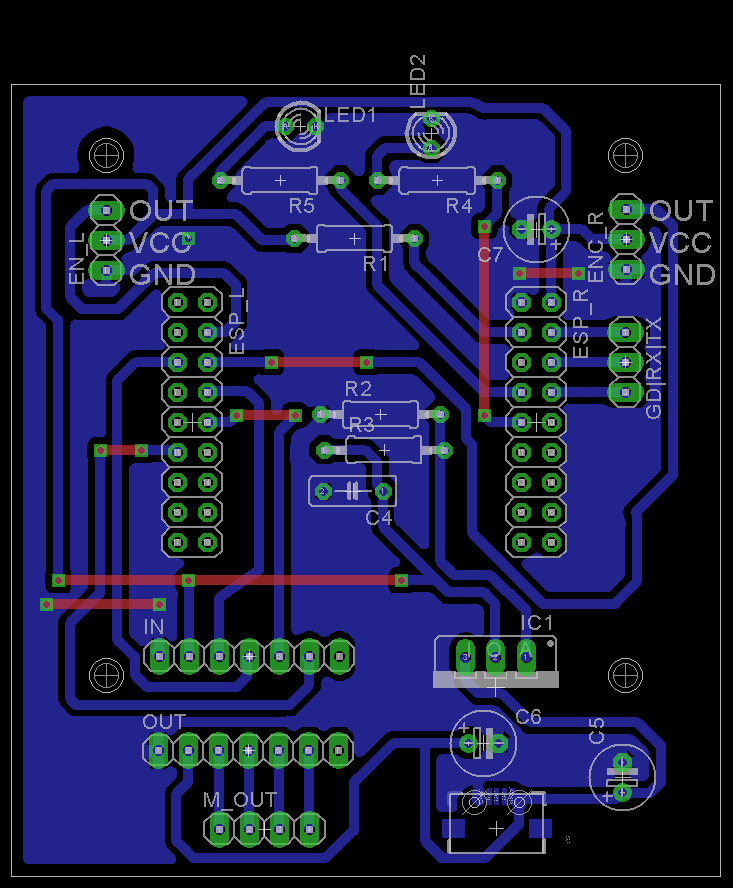
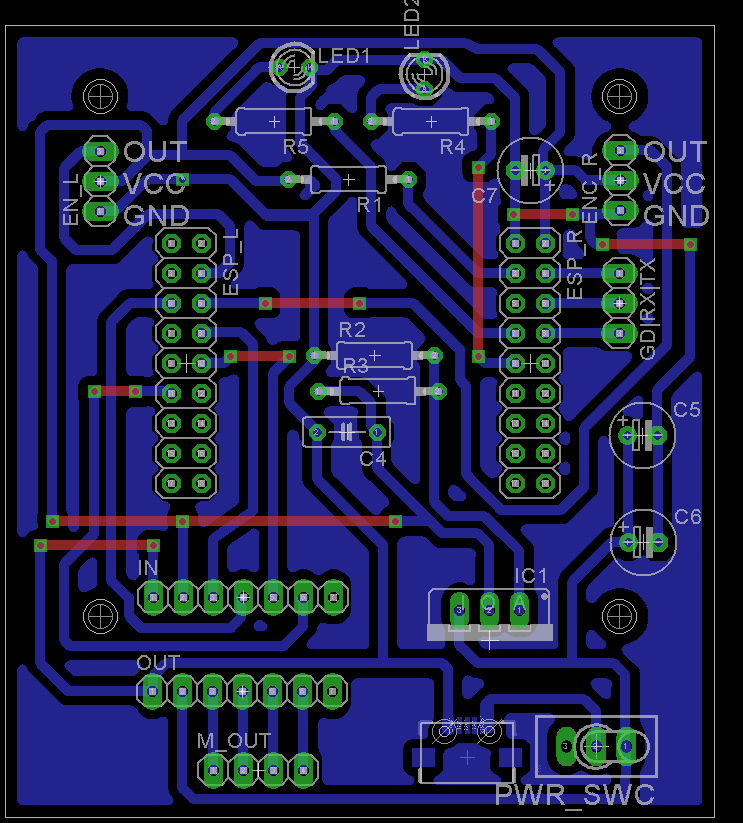
Eagle PCB Redesigned
* Routes were optimized
* Space for heat sink added
* Added Power ON/OFF switch

diff --git a/README.md b/README.md
@@ -26,7 +26,7 @@ Also make sure you have the possibility to create Printed Circuit Board (PCB).
   9. **1xUSB Micro B Connector**
      http://uk.farnell.com/amphenol-fci/10104110-0001lf/micro-usb-2-0-type-b-receptacle/dp/2293753
   10. **Power ON/OFF switch**
-     https://eckstein-shop.de/Adafruit-Breadboard-friendly-SPDT-Slide-Switch-Schiebeschalter-EN
+      https://eckstein-shop.de/Adafruit-Breadboard-friendly-SPDT-Slide-Switch-Schiebeschalter-EN
      
 ### Electrical components:
   1. 1x LM317 Voltage regulator

diff --git a/Eagle/README.md b/Eagle/README.md
@@ -15,5 +15,7 @@
 # Physical Board
 ![pcb](pcb_finished.jpg)
 
+## Tip:
+  1. You can add an heat sink in case LM317 Voltage Regulator is getting hot.
+
 ## Known bug:
-  1. Have to add some transistors to schematic to prevent one of the motors from rotating!!!
